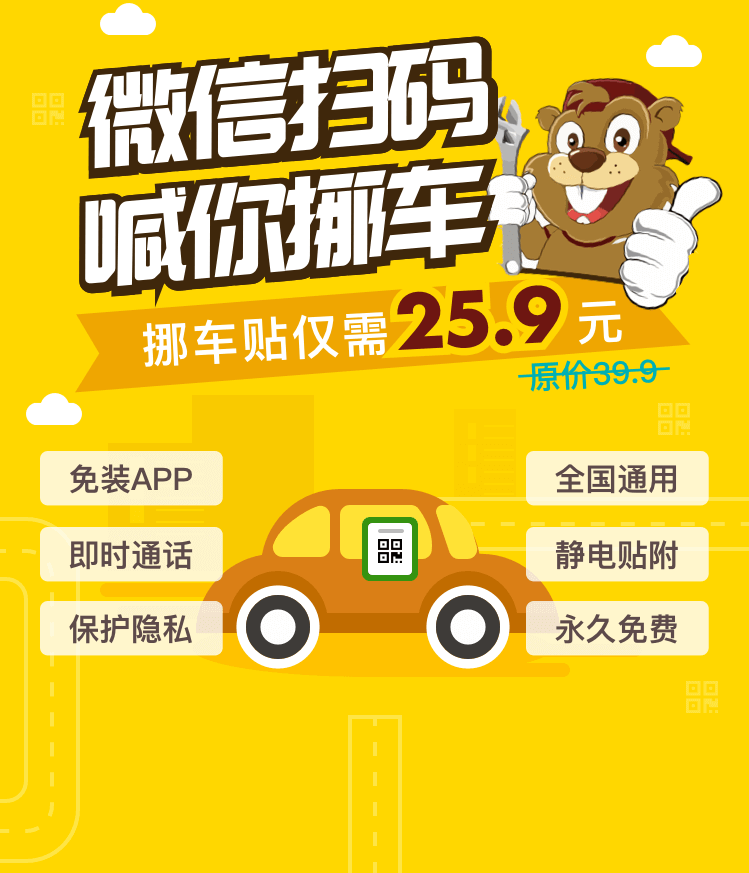
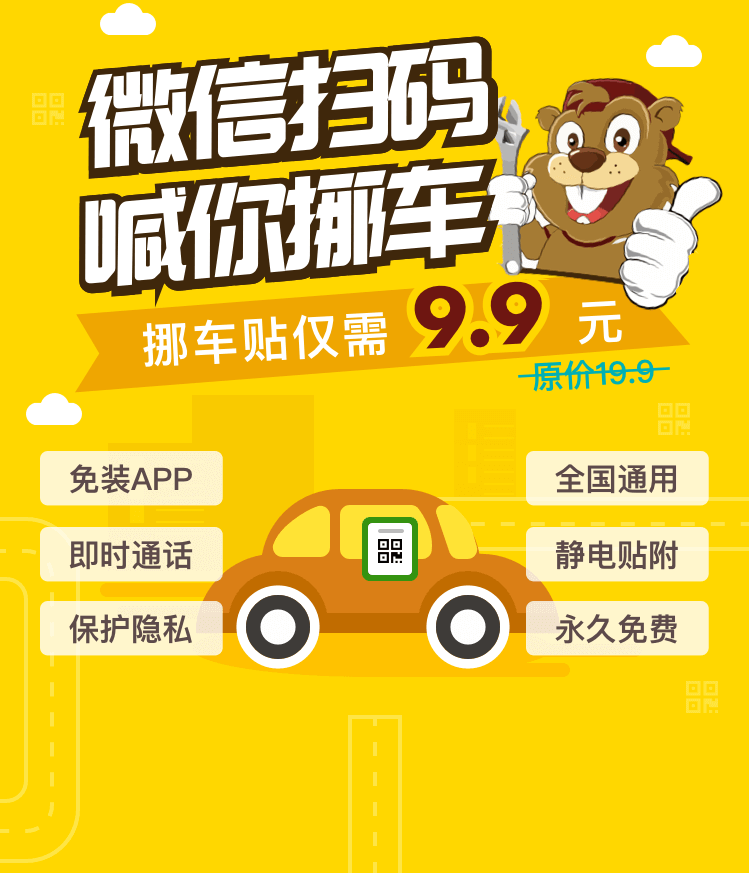
0

Changed region(s): [[0.522, 0.3093, 0.8905, 0.4639]]

diff --git a/pages/reciveWay/reciveWay.js b/pages/reciveWay/reciveWay.js
@@ -2,7 +2,7 @@
 const app = getApp();
 const md5 = require('../../utils/md5.js');
 const common = require('../../utils/common.js');
-const initPrice = 25.9;
+const initPrice = 9.9;
 Page({
     data: {
         buyNumber: 1,
